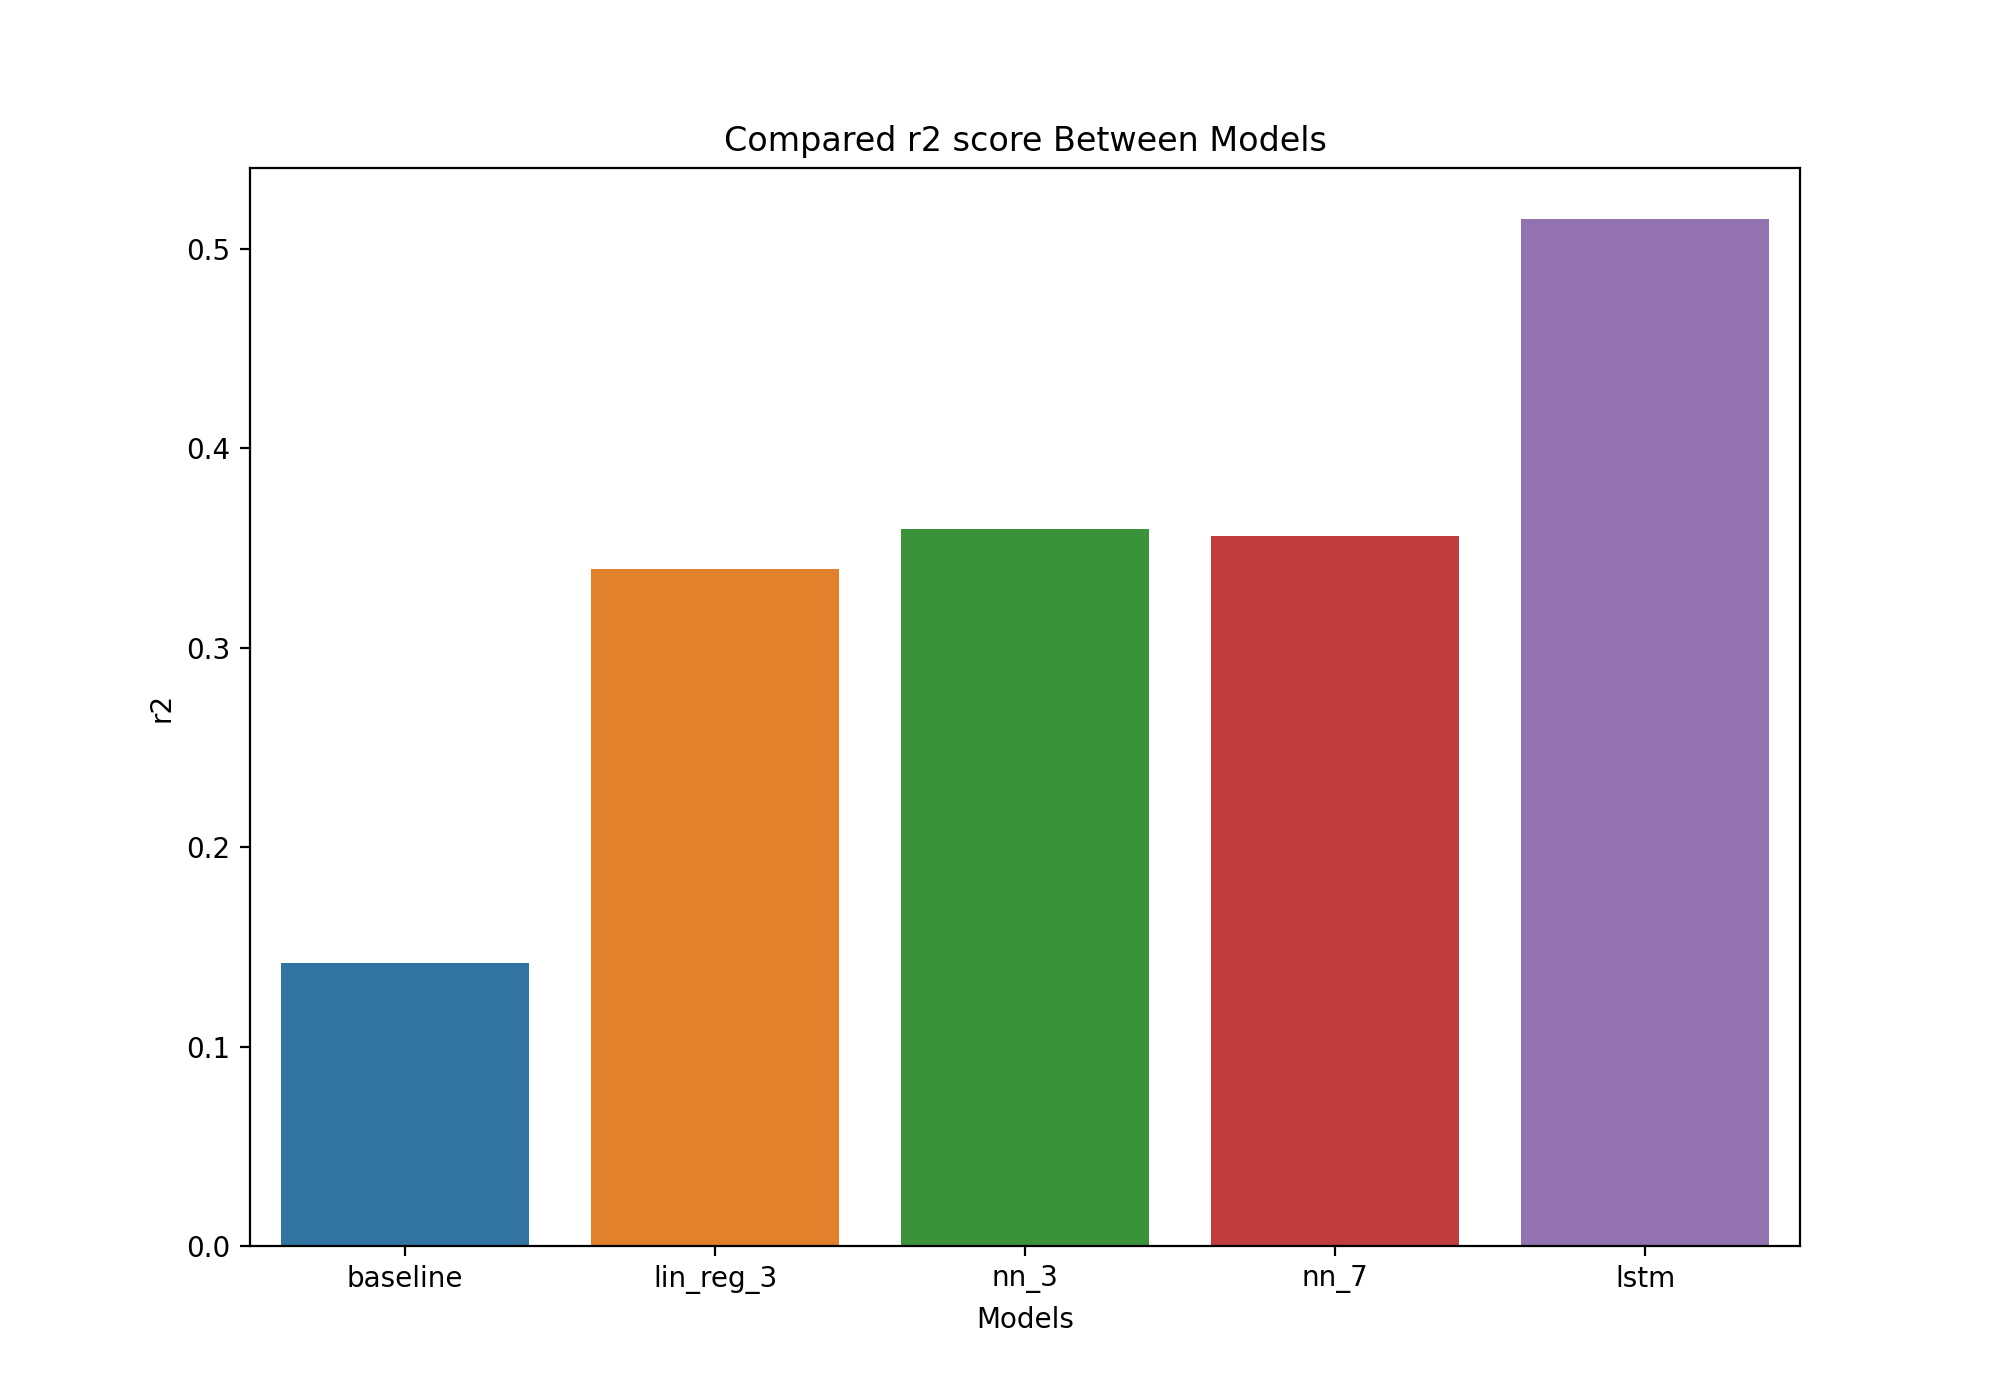
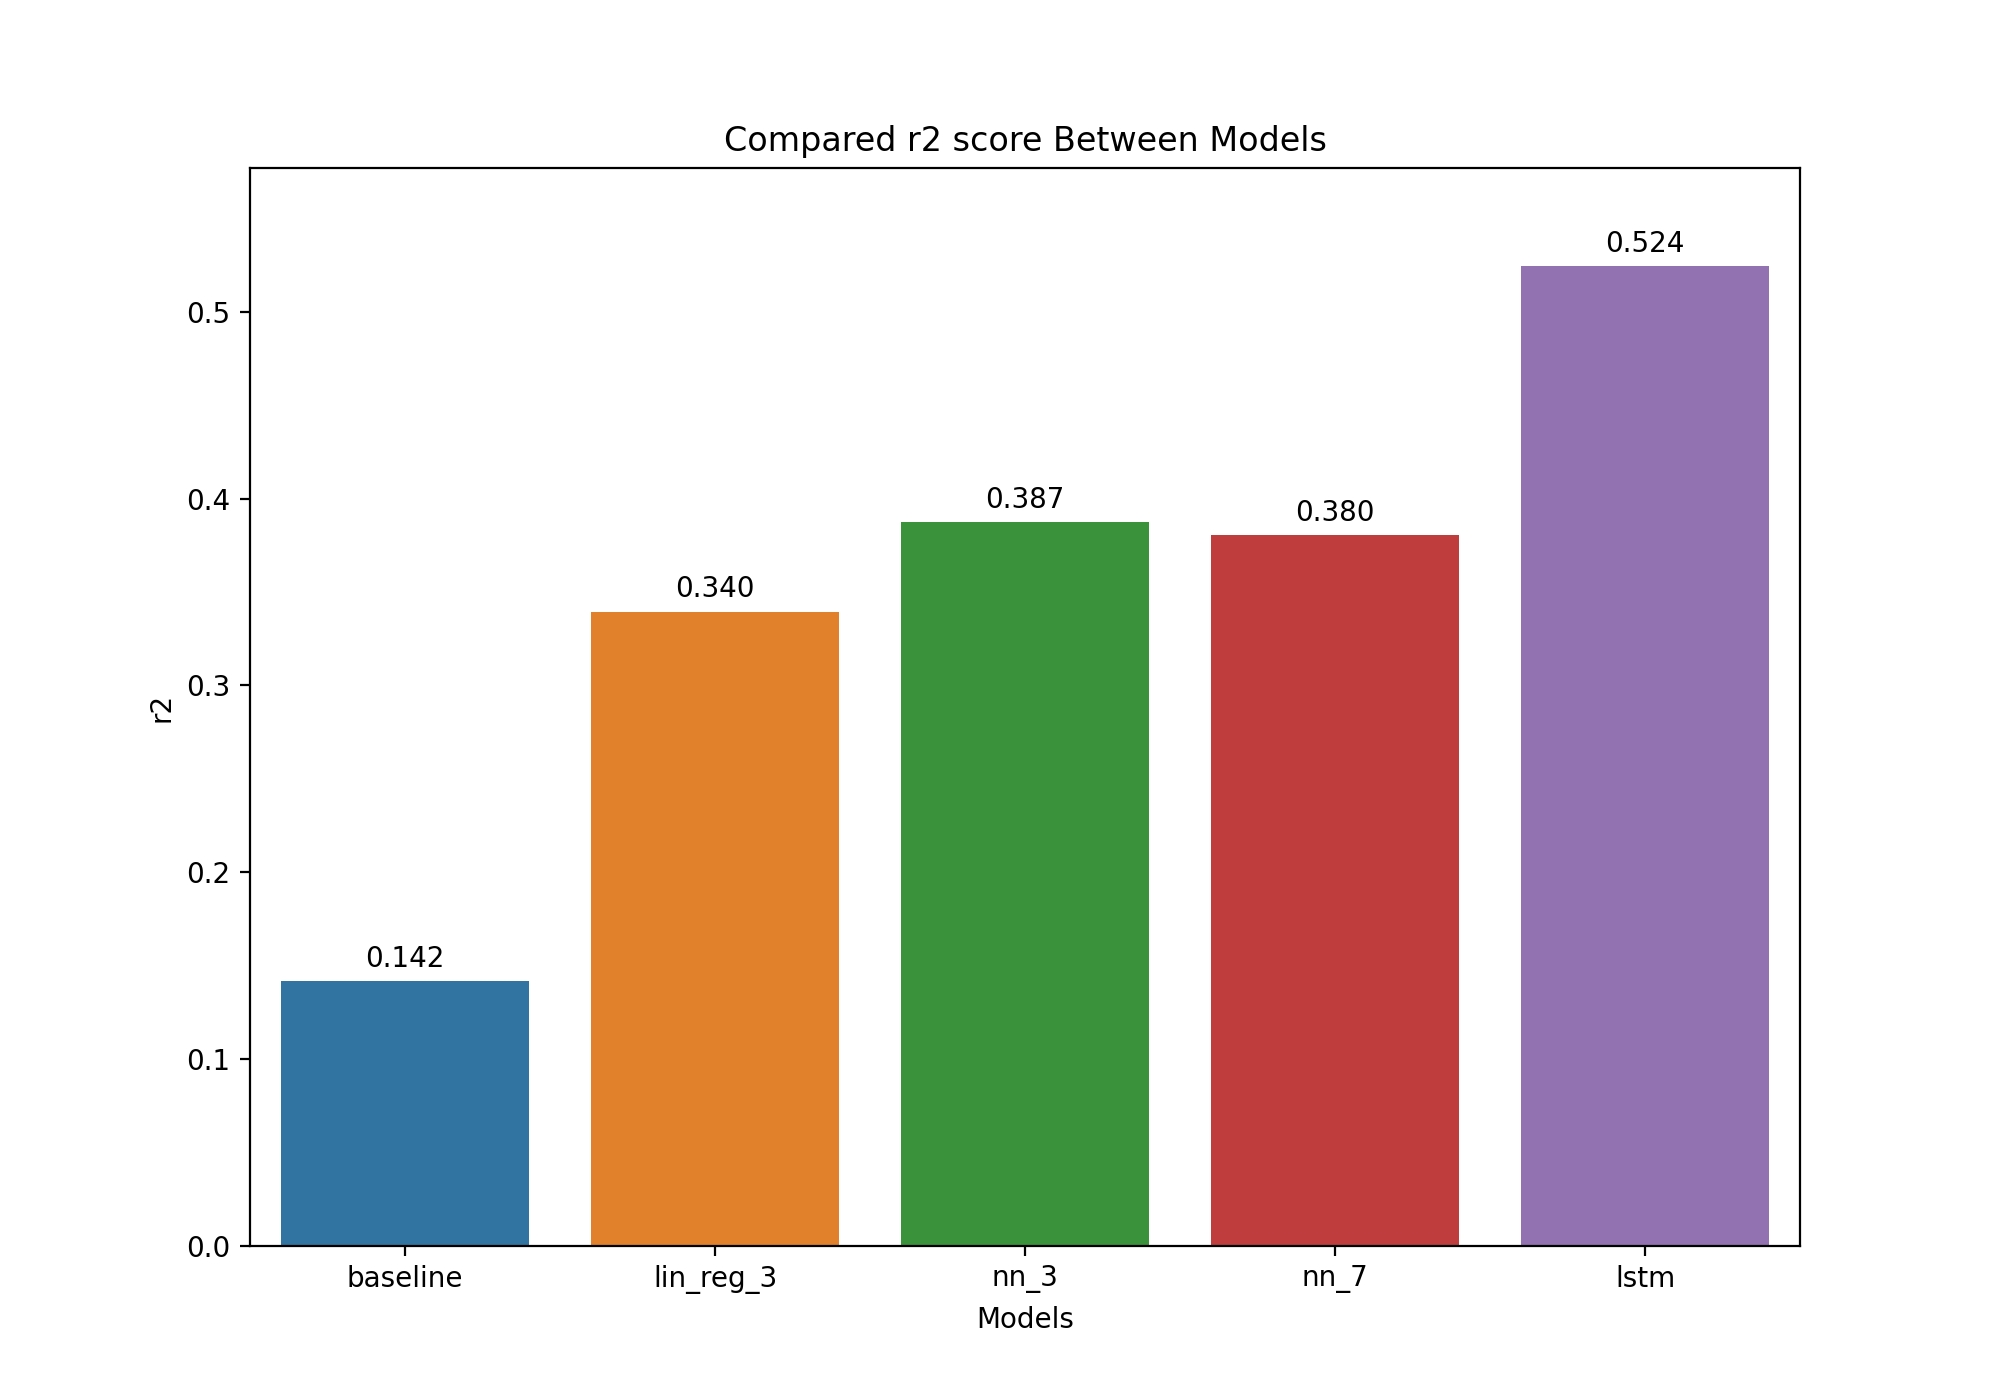
Updated plots to include values above the bars

diff --git a/src/plot.py b/src/plot.py
@@ -9,6 +9,9 @@ def barplot(x, y, hue, xlabel, ylabel, title, figname):
     fig, ax = plt.subplots(figsize=(10, 7))
 
     sns.barplot(x=x, y=y, hue=hue, ax=ax)
+    for container in ax.containers:
+        ax.bar_label(container, fmt="%.3f", padding=3)
+    ax.margins(y=0.1)
     ax.set_xlabel(xlabel)
     ax.set_ylabel(ylabel)
     ax.set_title(title)
